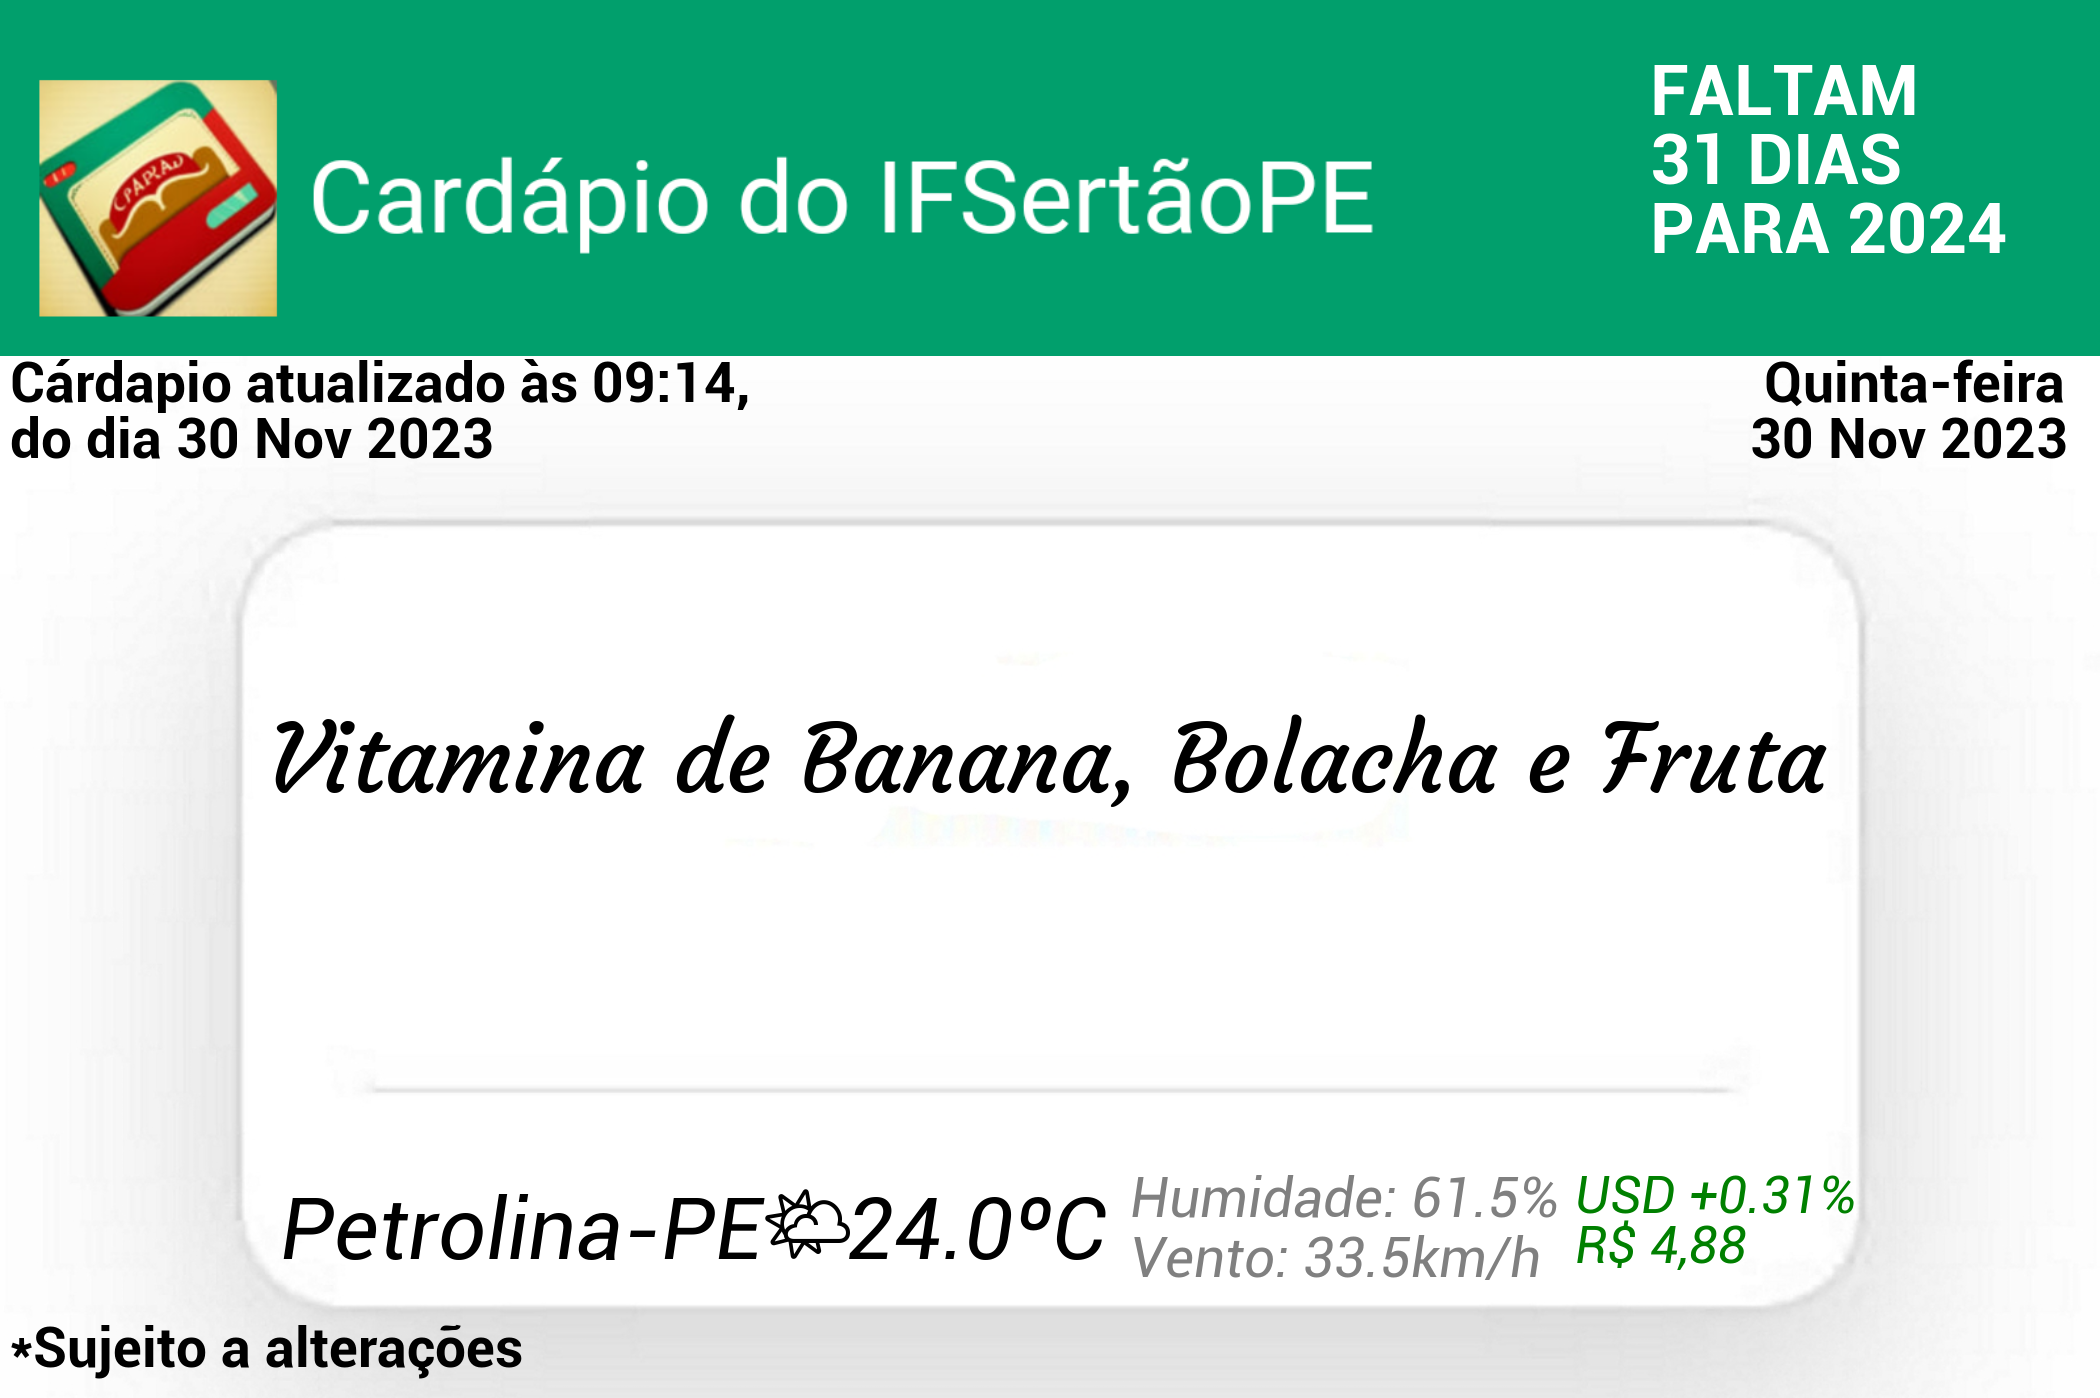
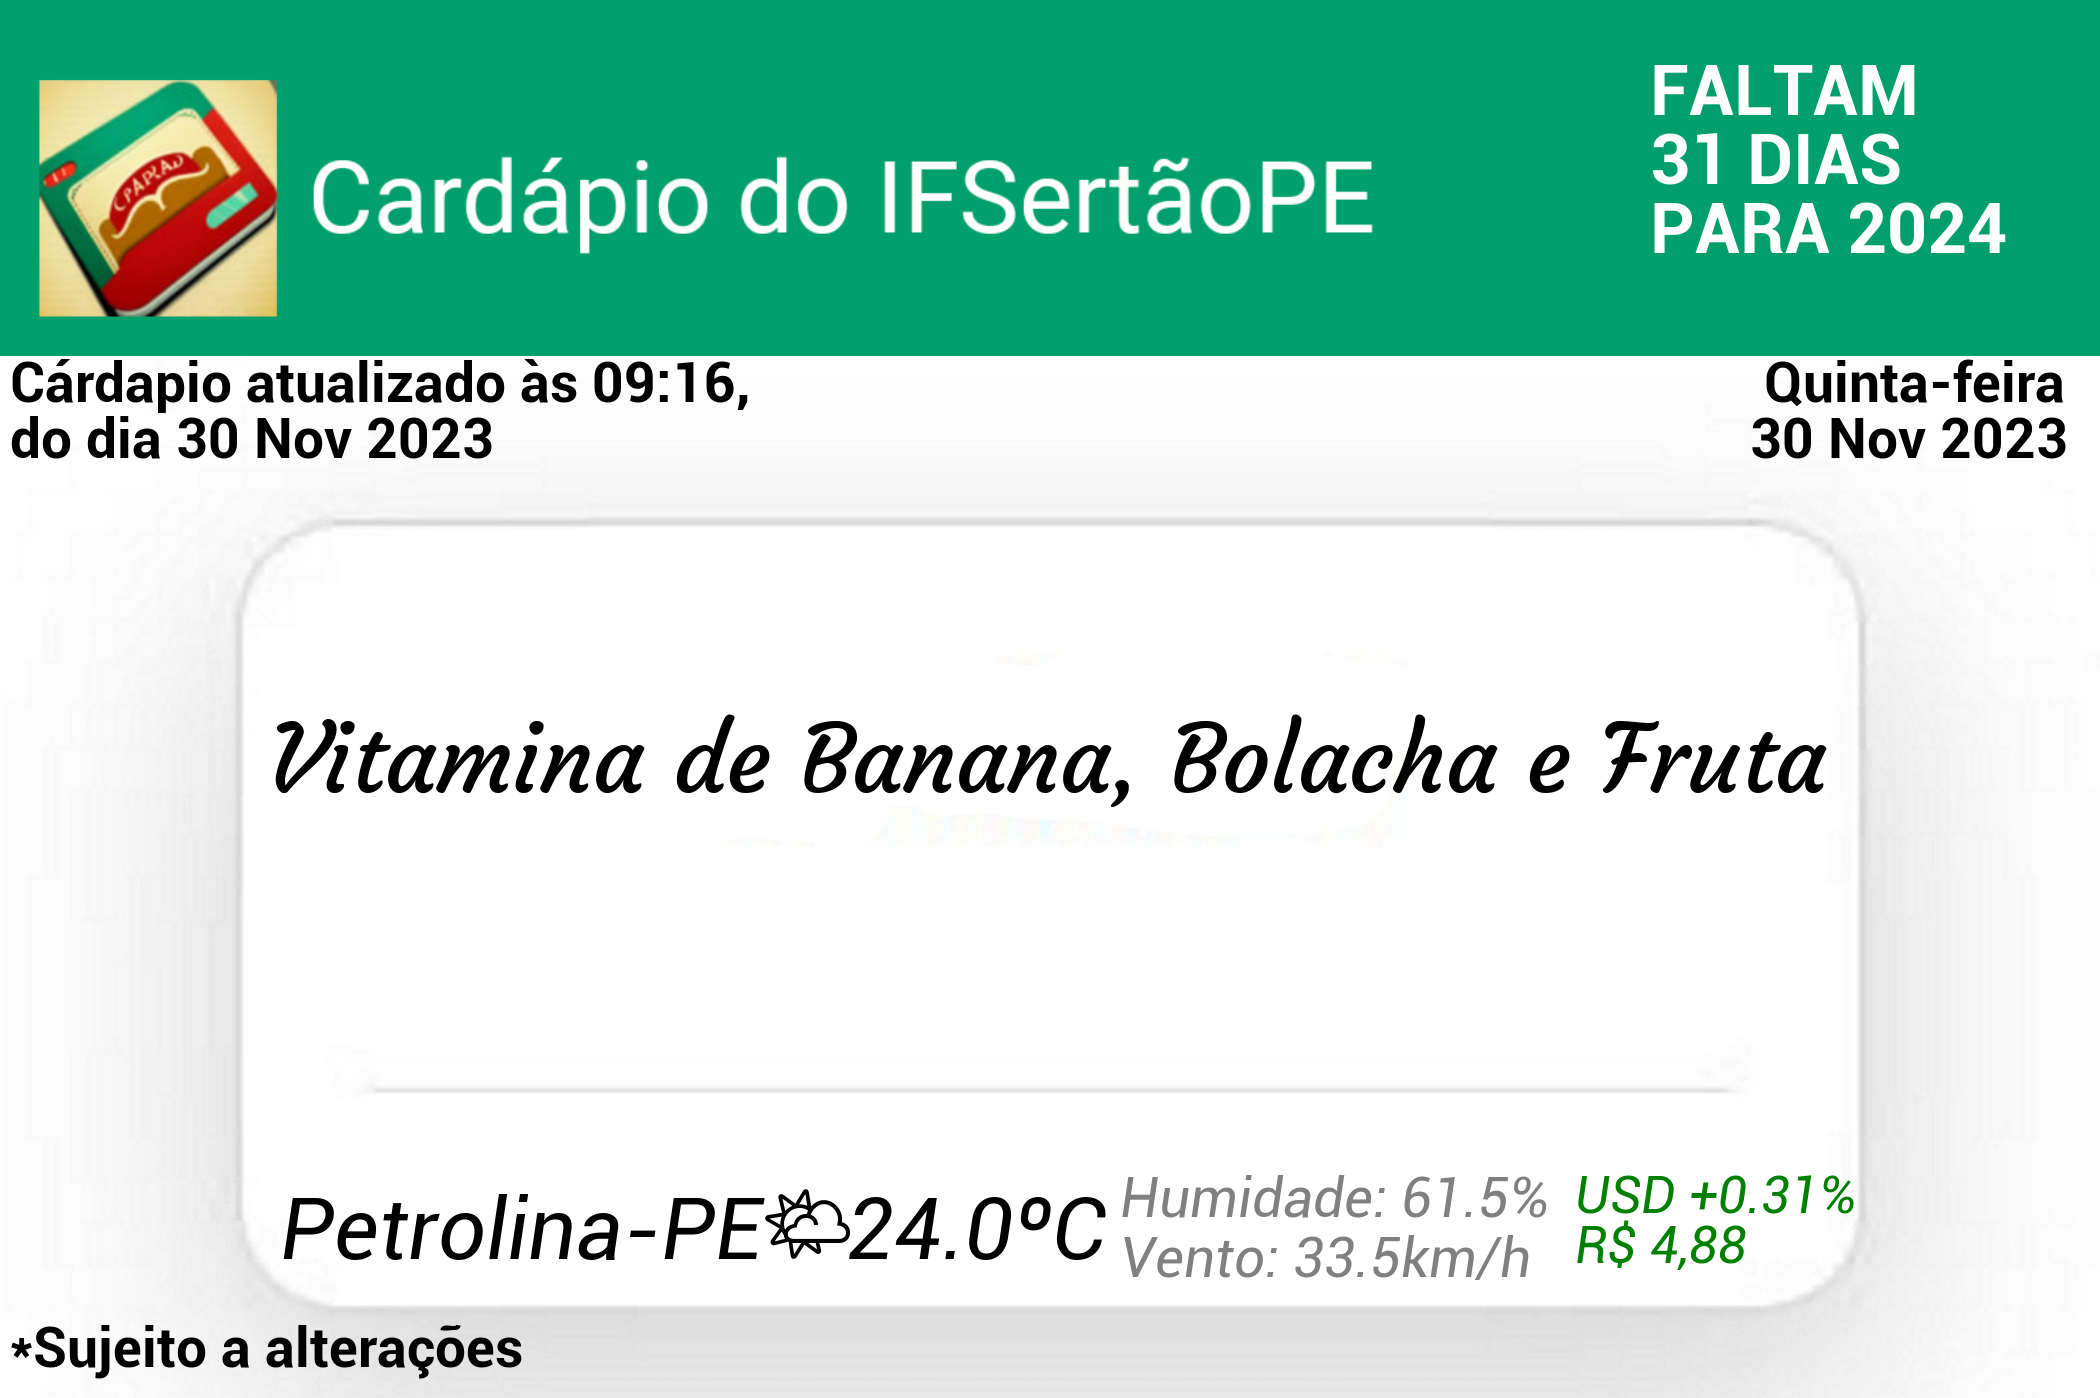
create api db reysofts

Changed region(s): [[0.5262, 0.8305, 0.7429, 0.9227]]

diff --git a/src/create_template.py b/src/create_template.py
@@ -52,8 +52,8 @@ def _create_painel_food_(food_name:str,path:str='test.png'):
     percent_cloud = (data_now['cloud']+data_now['rain_percent'])
     print(percent_cloud)
     draw.text((280,1180),f"Petrolina-PE    {(data_now['temperature']+1.1):.1f}ºC","#000",font=font_climate)
-    draw.text((1130,1165),f'Humidade: {data_now["humidity"]:.1f}%','grey',font=font_climate_small)
-    draw.text((1130,1225),f'Vento: {(data_now["v"]*3.6):.1f}km/h','grey',font=font_climate_small)
+    draw.text((1120,1165),f'Humidade: {data_now["humidity"]:.1f}%','grey',font=font_climate_small)
+    draw.text((1120,1225),f'Vento: {(data_now["v"]*3.6):.1f}km/h','grey',font=font_climate_small)
     draw.text((760,1180),get_emoji_cloud(percent_cloud),'#000',font=font_emoji)
     
     cr = f"R$ {doll['currency']:.2f}"
